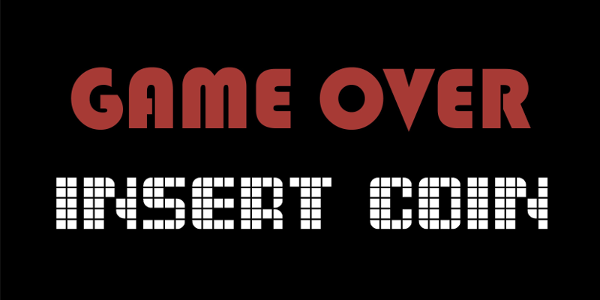
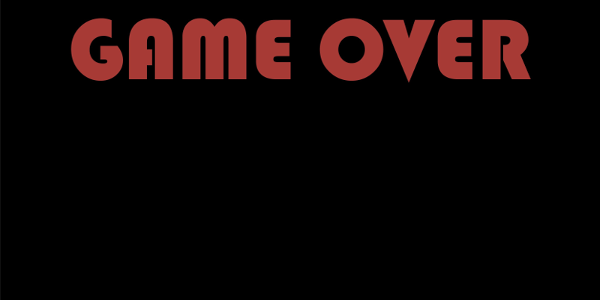
Доделан подсчет результатов

Changed region(s): [[0.12, 0.06, 0.9, 0.45], [0.09, 0.57, 0.57, 0.78], [0.6, 0.57, 0.93, 0.78]]

diff --git a/Games/Tanks_objects/Game_over.py b/Games/Tanks_objects/Game_over.py
@@ -2,24 +2,35 @@ from random import randint
 import pygame as pg
 import sys
 from Games import config
+from Games.Tanks_objects.Print_kills import print_kills
 
 
 class GameOver(pg.sprite.Sprite):
     def __init__(self, game):
         super().__init__(game.pause_group)
         self.base_img = pg.image.load(
-            'Games/Tanks_objects/data/images/gameover2.png').convert_alpha()
+            'Games/Tanks_objects/data/images/gameover.png').convert_alpha()
         self.image = self.base_image = pg.transform.scale(self.base_img, (config.WIDTH, config.HEIGHT))
         self.speed = 200
+        self.images = []
+        for i in range(4):
+            tank_img = pg.image.load(f'Games/Tanks_objects/data/images/enemy_tank{i}.png').convert_alpha()
+            tank_img = pg.transform.scale(tank_img, (40, 40))
+            tank_img = pg.transform.rotate(tank_img, -90)
+            self.images.append(tank_img)
+        self.game = game
+        self.text_coord = 50
+        self.vis_kills = [-1, -1, -1, -1]
         self.rect = self.image.get_rect()
         self.rect.x = -self.rect.width
 
     def update(self):
         if self.rect.x < 0:
             self.rect.x += self.speed / config.FPS
-        # self.rect.x, self.rect.y = pos
-
-    # координата x будет случайна
+        else:
+            self.text_coord = config.HEIGHT // 8 * 2.5
+            self.game.screen.blit(self.base_image, (0, 0))
+            print_kills(self)
 
 
 if __name__ == '__main__':

diff --git a/Games/Tanks_objects/Print_kills.py b/Games/Tanks_objects/Print_kills.py
@@ -1,0 +1,39 @@
+from random import randint
+import pygame as pg
+import sys
+from Games import config
+
+
+
+def print_kills(self):
+	for j in range(len(self.vis_kills)):
+		if self.vis_kills[j] < self.game.kill_counts[j]:
+			self.vis_kills[j] += 0.02
+			break
+	for i in range(len(self.vis_kills)):
+		if self.vis_kills[i] >= 0:
+			font = pg.font.Font(None, 40)
+			string_rendered = font.render(
+				'     - >     ' + str(round(self.vis_kills[i])) +
+				'    PTS    ' + str(round(self.vis_kills[i]) * 100 * (i + 1)), 1, pg.Color('white'))
+			intro_rect = string_rendered.get_rect()
+			intro_rect.top = self.text_coord
+			intro_rect.x = config.WIDTH // 7 * 2 + 40
+			self.game.screen.blit(self.images[i], (config.WIDTH // 7 * 2, self.text_coord))
+			self.text_coord += intro_rect.height
+			self.game.screen.blit(string_rendered, intro_rect)
+		self.text_coord += 15
+	for i in [
+		'_' * 30,
+		f'TOTAL:{" " * 5}{sum([round(k) for i, k in enumerate(self.vis_kills) if k > 0])}'
+		f'{" " * 10}SCORE{" " * 5}{sum([round(k) * 100 * (i + 1) for i, k in enumerate(self.vis_kills) if k > 0])}'
+	]:
+		font = pg.font.Font(None, 30)
+		string_rendered = font.render(i, 1, pg.Color('white'))
+		intro_rect = string_rendered.get_rect()
+		intro_rect.top = self.text_coord
+		intro_rect.x = config.WIDTH // 7 * 2
+		self.text_coord += intro_rect.height
+		self.game.screen.blit(string_rendered, intro_rect)
+		self.text_coord += 15
+	return False

diff --git a/Games/Tanks_objects/Win_screen.py b/Games/Tanks_objects/Win_screen.py
@@ -3,6 +3,7 @@ from random import randint
 import pygame as pg
 import sys
 from Games import config
+from Games.Tanks_objects.Print_kills import print_kills
 
 
 class WinScreen(pg.sprite.Sprite):
@@ -24,27 +25,9 @@ class WinScreen(pg.sprite.Sprite):
         self.rect = self.image.get_rect()
 
     def update(self):
-        self.text_coord = config.HEIGHT // 8 * 5
+        self.text_coord = config.HEIGHT // 8 * 2.5
         self.game.screen.blit(self.base_image, (0, 0))
-        self.print_text()
-
-    def print_text(self):
-        for j in range(len(self.vis_kills)):
-            if self.vis_kills[j] < self.game.kill_counts[j]:
-                self.vis_kills[j] += 0.015
-                break
-        for i in range(len(self.vis_kills)):
-            if self.vis_kills[i] >= 0:
-                font = pg.font.Font(None, 50)
-                string_rendered = font.render(str(round(self.vis_kills[i])), 1, pg.Color('white'))
-                intro_rect = string_rendered.get_rect()
-                intro_rect.top = self.text_coord
-                intro_rect.x = config.WIDTH // 7 * 4
-                self.game.screen.blit(self.images[i], (config.WIDTH // 7 * 3, self.text_coord))
-                self.text_coord += intro_rect.height
-                self.game.screen.blit(string_rendered, intro_rect)
-            self.text_coord += 15
-        return False
+        print_kills(self)
 
 
 

diff --git a/Games/Tanks_objects/Tank.py b/Games/Tanks_objects/Tank.py
@@ -21,7 +21,7 @@ class MainTank(pg.sprite.Sprite):
 		self.base_image = pg.transform.scale(self.base_image, (self.size, self.size))
 		self.image = pg.transform.rotate(self.base_image, 0)
 		self.rect = self.image.get_rect(center=self.pos)  # контур спрайта
-		self.time_og_showing_hp = 3  # КАКУЮ ЧАСТЬ СЕКУНДЫ БУДЕТ ПОКАЗЫВАТЬСЯ HP
+		self.time_og_showing_hp = 0.1  # КАКУЮ ЧАСТЬ СЕКУНДЫ БУДЕТ ПОКАЗЫВАТЬСЯ HP
 		self.game = game
 		self.vector_x = 0
 		self.vector_y = -1
